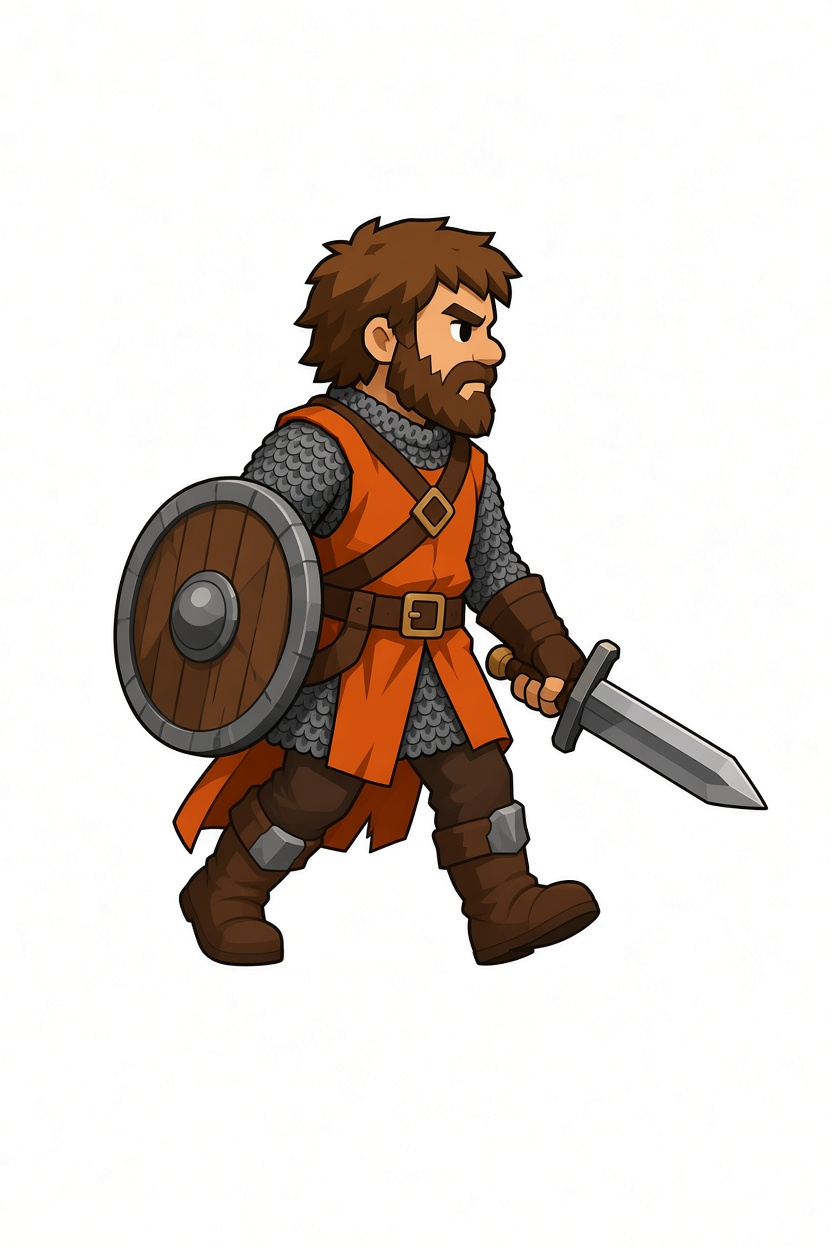
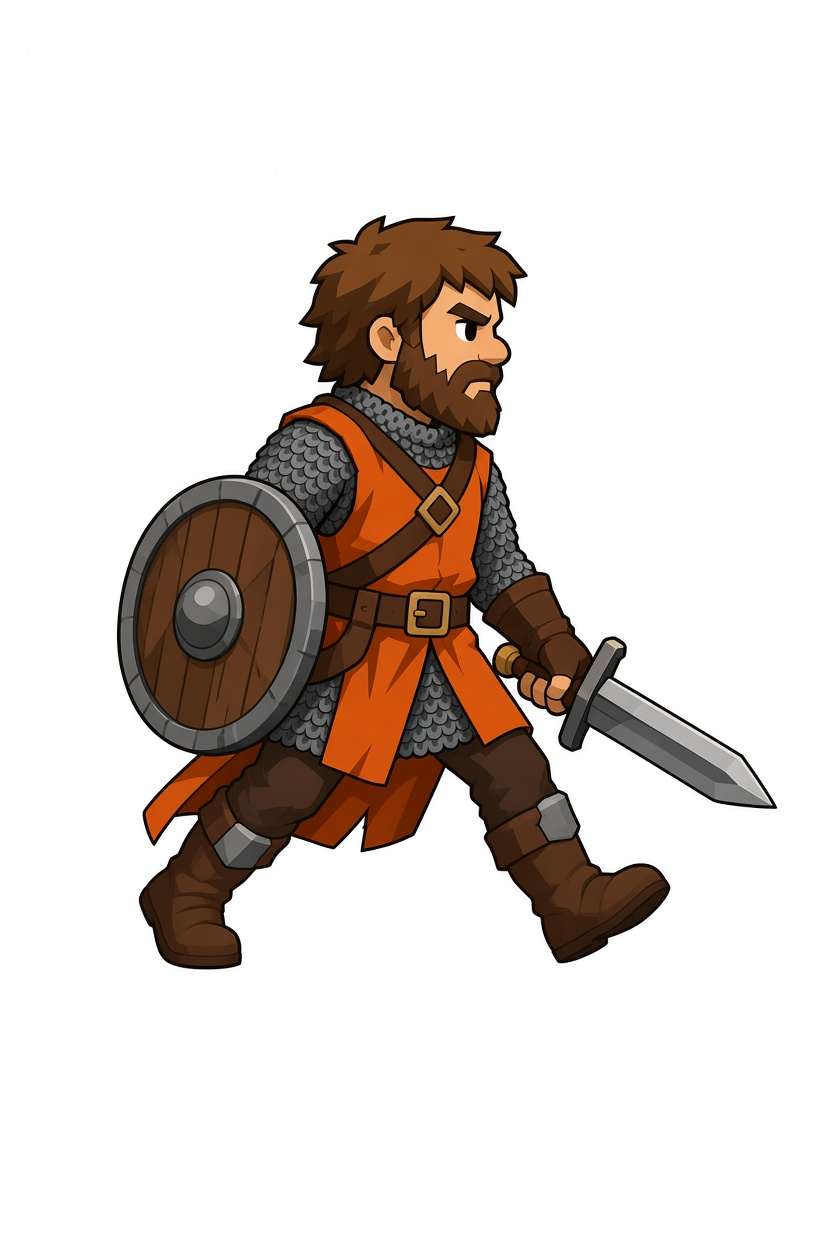
Walk reads at phone size; title shows the build commit (#75 follow-up)
Contact frames remade with a wide stride through grok.py, the cycle at
12 fps, and "build <commit>" on the title so a phone can tell which
build it runs (GitHub Pages may cache the page for up to 10 minutes).

Claude-Session: https://claude.ai/code/session_01XPe5bY4Rc4YkLYzgnKmhAA

Changed region(s): [[0.125, 0.1875, 0.9375, 0.7812], [0.5312, 0.1562, 0.5625, 0.1875], [0.4375, 0.1562, 0.4688, 0.1875]]

diff --git a/re-rpg/src/game/scenes/TitleScene.ts b/re-rpg/src/game/scenes/TitleScene.ts
@@ -1,7 +1,7 @@
 import Phaser from 'phaser';
 import { RUN_VERSION } from '@core/run';
 import { createMeta } from '@core/meta';
-import { APP_VERSION } from '@game/version';
+import { APP_VERSION, BUILD } from '@game/version';
 import { deserialize, getMeta, getStore, setMeta, setSession } from '@game/session';
 import { legacySummary } from '@core/meta';
 import { Button } from '@game/ui/Button';
@@ -70,7 +70,7 @@ export class TitleScene extends Phaser.Scene {
       }, { width: 320, fill: 0x1f2a44, edge: COLORS.goldHex });
     });
 
-    this.add.text(12, height - 12, `v${APP_VERSION}  ${width}x${height}`, text.mono).setOrigin(0, 1);
+    this.add.text(12, height - 12, `v${APP_VERSION} · build ${BUILD}  ${width}x${height}`, text.mono).setOrigin(0, 1);
     this.cloudLine(cx, height - 16);
     // Re-enter fullscreen after the browser's back gesture dropped it.
     new Button(this, width - 170, height - 24, 'fullscreen', () => {

diff --git a/re-rpg/vite.config.ts b/re-rpg/vite.config.ts
@@ -1,8 +1,13 @@
 import { defineConfig } from 'vite';
 import { fileURLToPath, URL } from 'node:url';
+import { execSync } from 'node:child_process';
+
+// The commit a build came from, shown on the title screen so a phone can tell which build it runs.
+const build = (() => { try { return (process.env.GITHUB_SHA ?? execSync('git rev-parse HEAD').toString()).trim().slice(0, 7); } catch { return 'dev'; } })();
 
 export default defineConfig({
   base: './',
+  define: { __BUILD__: JSON.stringify(build) },
   resolve: {
     alias: {
       '@core': fileURLToPath(new URL('./src/core', import.meta.url)),

diff --git a/re-rpg/src/game/version.ts b/re-rpg/src/game/version.ts
@@ -1,1 +1,5 @@
 export const APP_VERSION = '0.0.1';
+
+declare const __BUILD__: string;
+/** The commit this build came from (vite.config.ts), shown on the title screen. */
+export const BUILD = typeof __BUILD__ === 'string' ? __BUILD__ : 'dev';

diff --git a/re-rpg/docs/DECISIONS.md b/re-rpg/docs/DECISIONS.md
@@ -899,3 +899,13 @@ The first job is the overworld walk:
 Found on the way: xAI's image host turns away Python's default user agent, so the script sends
 its own. Checked in a real run: frames 1→4 cycle on the road and he is back on frame 0 at the
 node.
+
+Follow-up (designer's report: "he bobs but the animation does not play"):
+- **The live site was correct.** The same test against GitHub Pages showed the walk sheet
+  cycling. The phone most likely still had the old build, since Pages lets the page be cached for
+  up to 10 minutes.
+- **The title screen now shows the build** ("v0.0.1 · build <commit>", bottom left; the commit
+  comes from `GITHUB_SHA` or `git rev-parse` in `vite.config.ts`), so a phone can tell which
+  version it runs.
+- **The walk also had to read better at 60 px:** the contact frames were remade with a wide
+  stride, and the cycle runs at 12 fps (was 8), so even a short 3-tile walk shows the legs move.

diff --git a/re-rpg/docs/NEXT.md b/re-rpg/docs/NEXT.md
@@ -80,7 +80,7 @@ first real test of #68.
 The key arrives in the designer's first message. Save it to `re-rpg/.env.local` (git ignores it)
 before anything else, and never write it into a commit or a doc.
 
-Done: the hero's 4-frame overworld walk. Art ideas, none started: walk sheets for the other
+Done: the hero's 4-frame overworld walk (12 fps, wide stride). The title screen shows `build <commit>` at the bottom left: ask the designer to check it when a change "isn't there". Art ideas, none started: walk sheets for the other
 classes the same way; front and back walk views; screen 2's painting; the opening cutscene, now
 possible with `grok.py video` (prompts in `art-src/cutscene/`).
 
